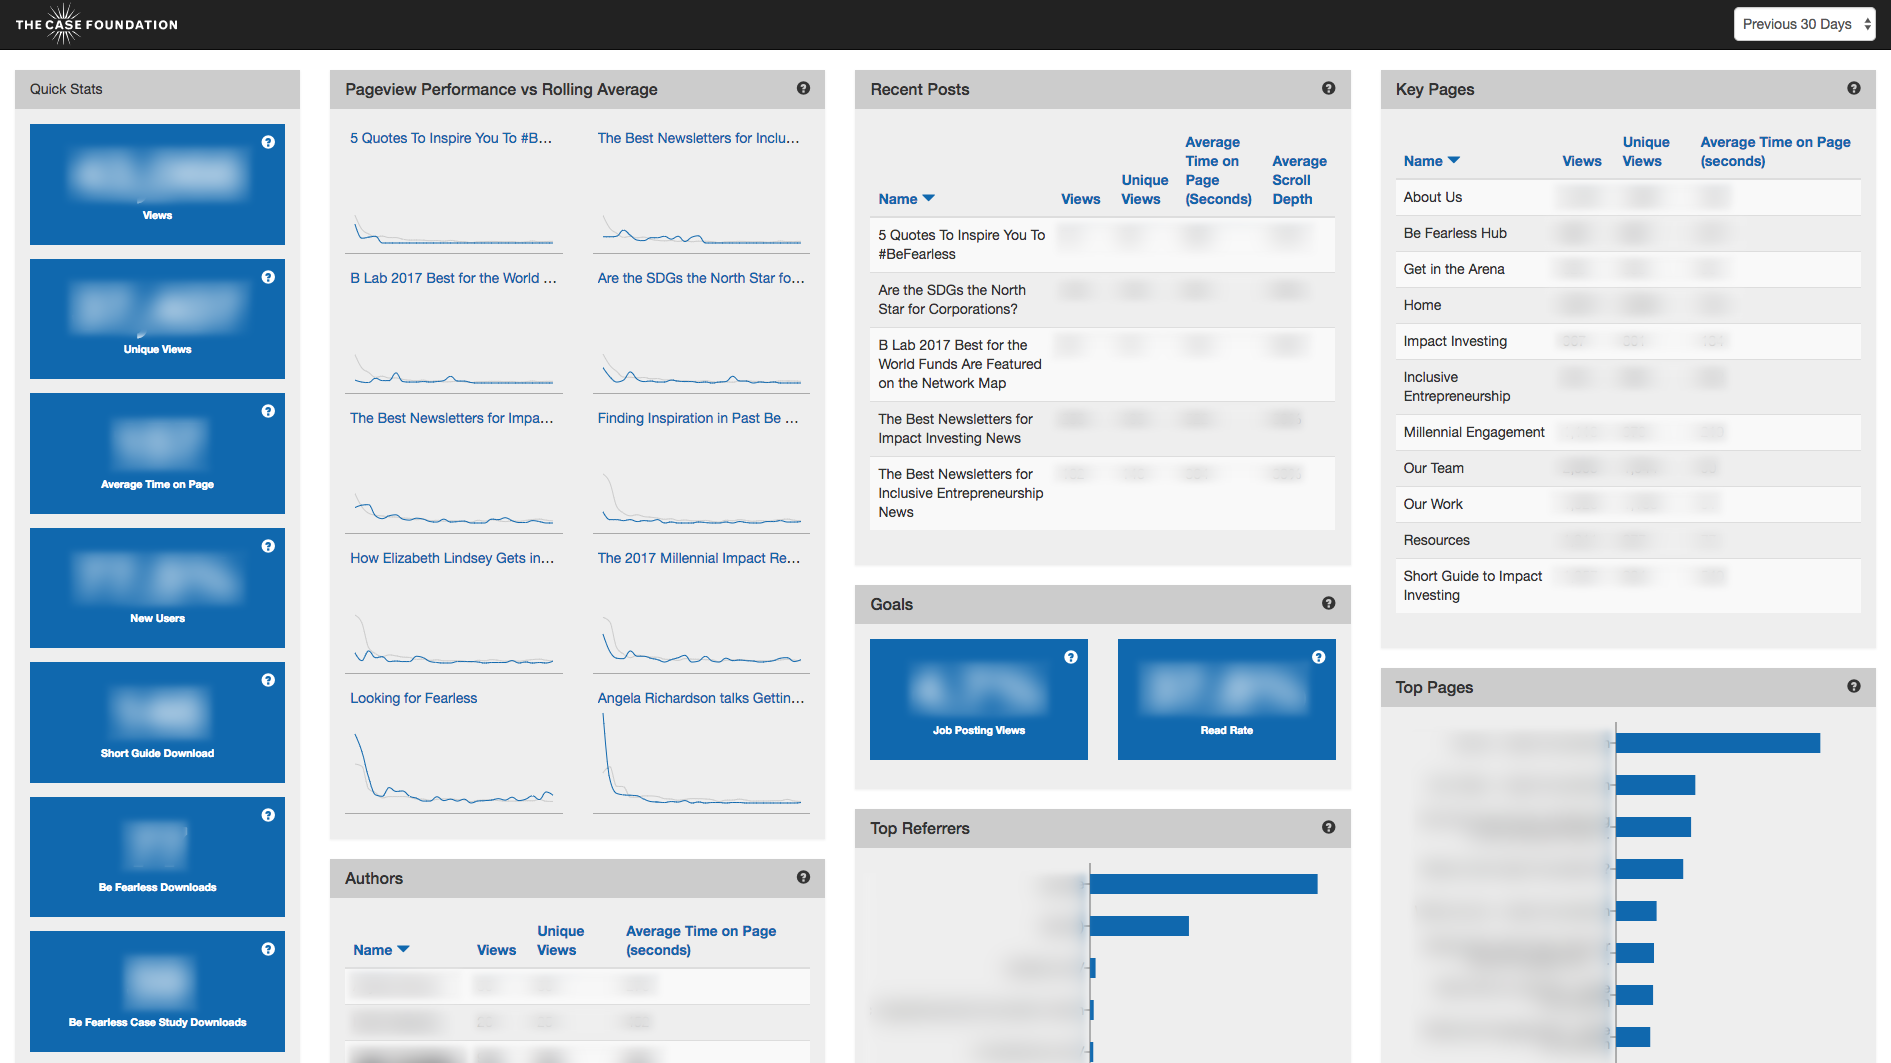
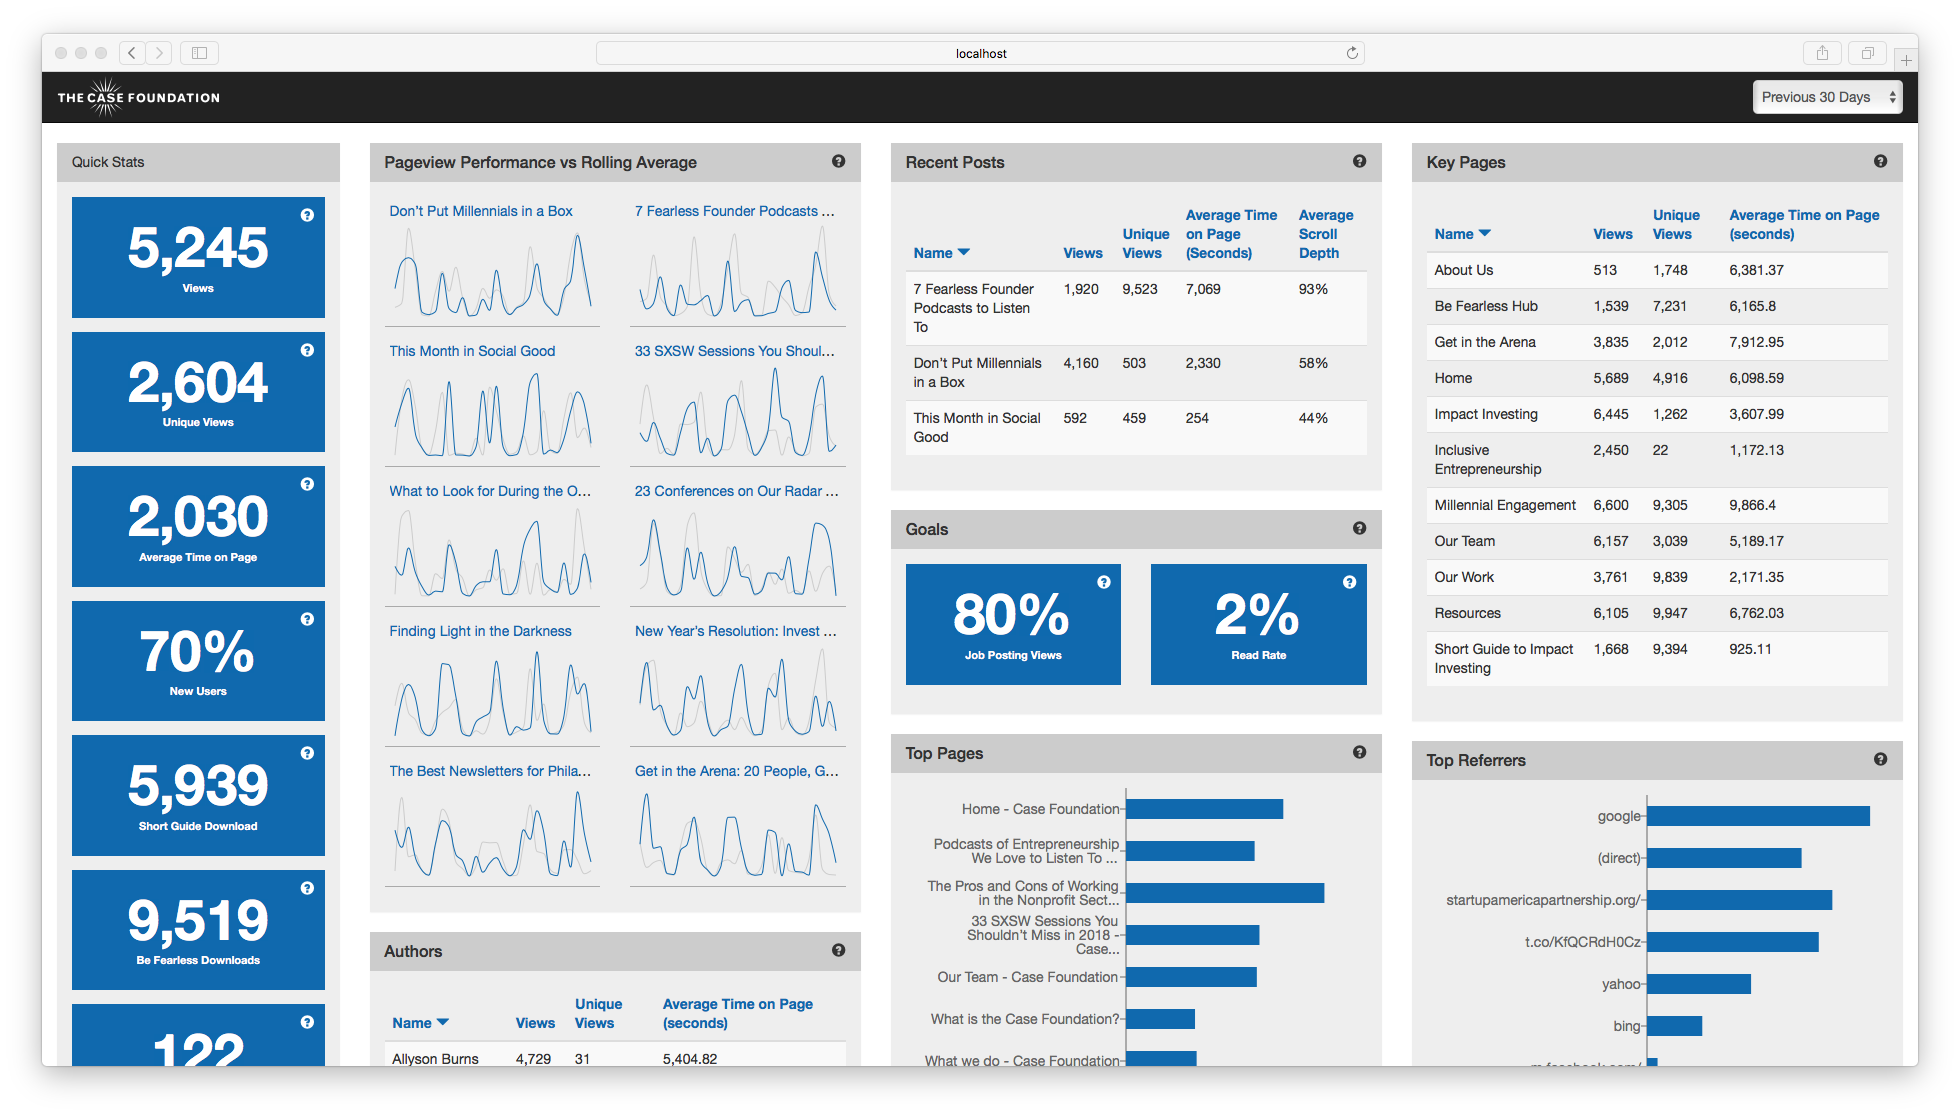
screenshot update

diff --git a/Readme.md b/Readme.md
@@ -7,6 +7,8 @@
 
 ![Screenshot](doc/screenshot.png)
 
+(Demo data shown)
+
 ## About
 
 Data-informed decision making within an organization is only as good as the organization’s understanding of the data and the timeliness of that information. Faced with that challenge at the Case Foundation, the team responsible for digital analytics and reporting set out to construct a dashboard in that directly communicated key online data to the entire organization in an efficient and easy-to-use experience. This dashboard leverages multiple, more complex analytics services to provide one clear picture of the Case Foundation’s digital performance on multiple website it runs. 
